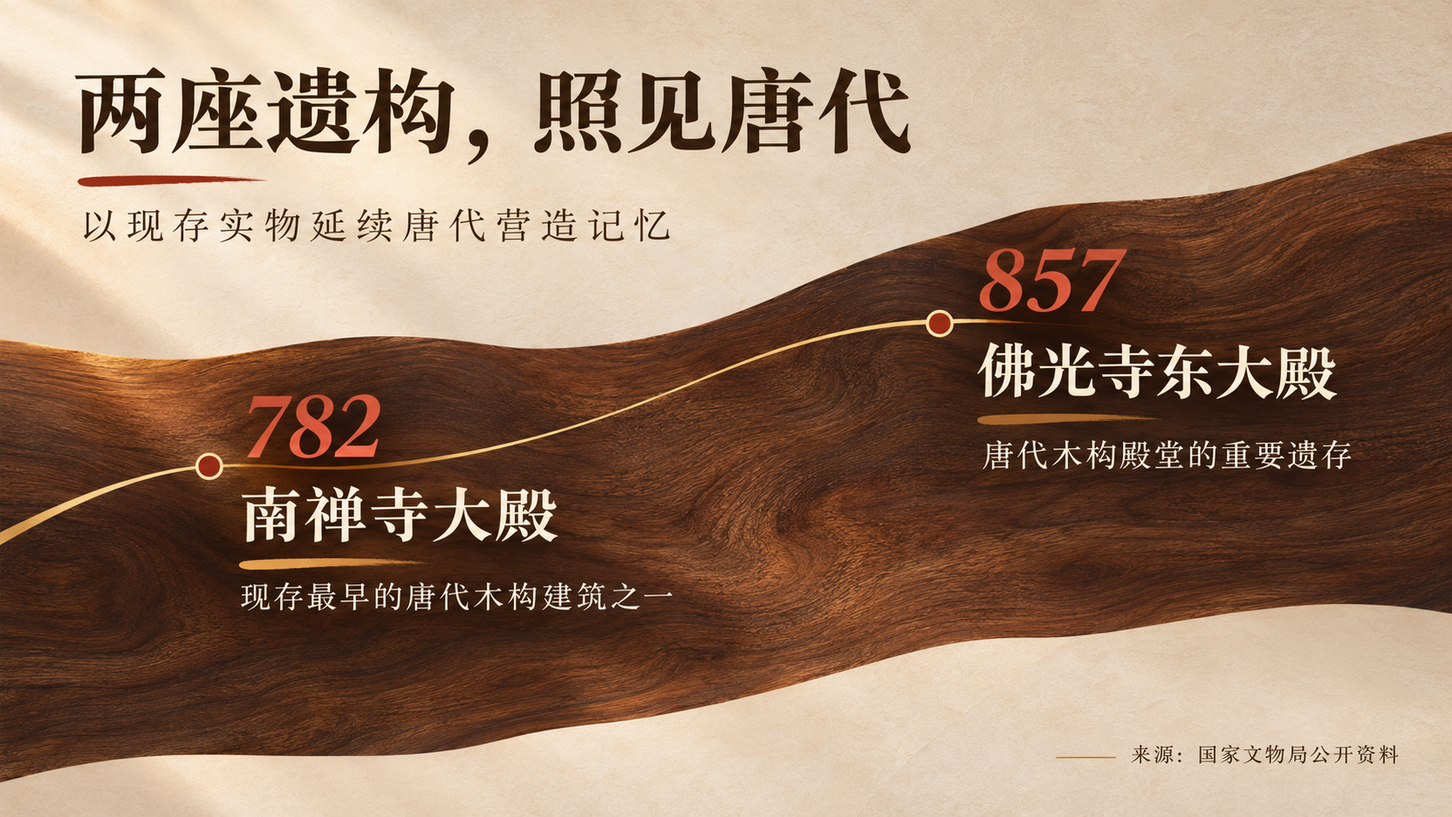
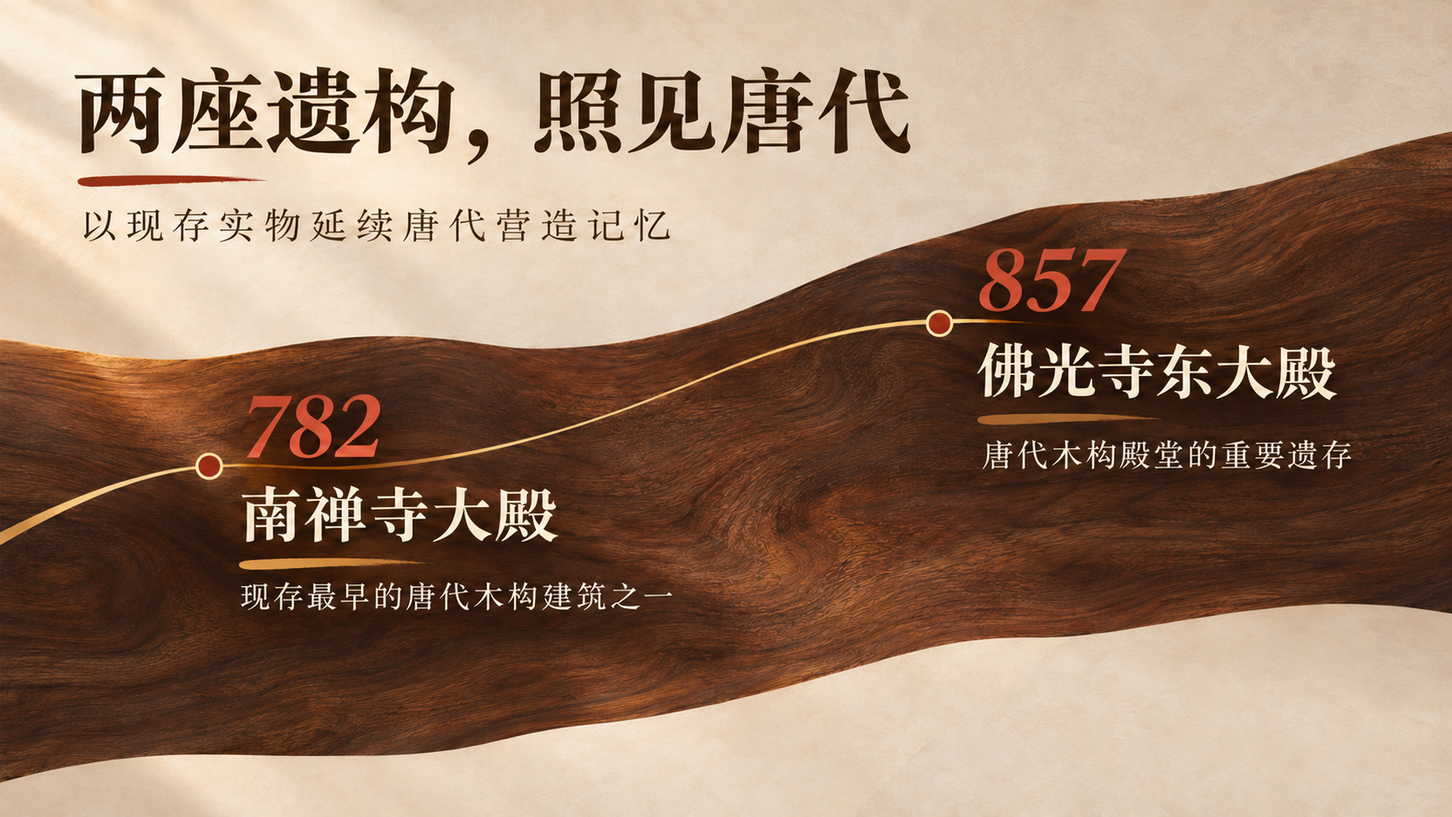
0.2.2: revise example images and add sources

diff --git a/KNOWN-ISSUES.md b/KNOWN-ISSUES.md
@@ -1,26 +1,6 @@
 # Known issues
 
-These issues in the example images are not yet fixed. Do not cite text inside the images; rely on checkable sources when producing slides. Sources and corrections are welcome in Issues.
+No example-image issues are currently listed (revised 2026-11-26). The images remain AI-generated design illustrations and must not be cited as historical evidence; rely on checkable sources when producing slides. Sources and corrections are welcome in Issues.
 
 | Image | Issue |
 |---|---|
-| [`tang-timber-architecture/02-historical-timeline`](.agents/skills/tang-timber-architecture/assets/examples/02-historical-timeline.png) | The in-image credit to National Cultural Heritage Administration public material has no matching source in this repository |
-| [`tang-timber-architecture/03-inscription-evidence`](.agents/skills/tang-timber-architecture/assets/examples/03-inscription-evidence.png) | The report title in the image is not checked against an original publication |
-| [`tang-timber-architecture/04-surviving-arts`](.agents/skills/tang-timber-architecture/assets/examples/04-surviving-arts.png) | The in-image source note has no matching source record |
-| [`ruyao-blue-slide-design/02-history-locator`](.agents/skills/ruyao-blue-slide-design/assets/examples/02-history-locator.png) | The map outline and points are AI-generated, unverified, and must not be used as a map |
-| [`ruyao-blue-slide-design/05-ending`](.agents/skills/ruyao-blue-slide-design/assets/examples/05-ending.png) | Same image as the primary reference `ruyao-blue-reference.png` |
-| [`minnan-red-brick/02-history`](.agents/skills/minnan-red-brick/assets/examples/02-history.png) | One Chinese character is malformed; “formally originated” overstates the recorded source |
-| [`jianzhan-yaobian/02-song-tea-culture`](.agents/skills/jianzhan-yaobian/assets/examples/02-song-tea-culture.png) | Callout lines have no labels |
-| [`ruyao-blue-slide-design/04-crackle-details`](.agents/skills/ruyao-blue-slide-design/assets/examples/04-crackle-details.png) | Crab-claw crackle and spur-mark statements have no recorded source |
-| [`guan-ice-crackle/03-history-timeline`](.agents/skills/guan-ice-crackle/assets/examples/03-history-timeline.png) | Kiln names have no recorded source |
-| [`guan-ice-crackle/04-powder-celadon`](.agents/skills/guan-ice-crackle/assets/examples/04-powder-celadon.png) | The rim and foot color explanation has no recorded source; small text is hard to read |
-| [`huizhou-architecture/02-village-history`](.agents/skills/huizhou-architecture/assets/examples/02-village-history.png) | Date range and building background have no recorded source |
-| [`huizhou-architecture/04-three-carvings`](.agents/skills/huizhou-architecture/assets/examples/04-three-carvings.png) | The claimed Song-dynasty origin has no recorded source |
-| [`ming-forbidden-city/02-construction-timeline`](.agents/skills/ming-forbidden-city/assets/examples/02-construction-timeline.png) | The 1421 capital move has no recorded source |
-| [`ming-forbidden-city/05-ending`](.agents/skills/ming-forbidden-city/assets/examples/05-ending.png) | The 1421 capital move has no recorded source |
-| [`minnan-red-brick/04-space`](.agents/skills/minnan-red-brick/assets/examples/04-space.png) | Corner lattice decoration and the humidity-control statement await review |
-| [`palace-caisson/02-layered-structure`](.agents/skills/palace-caisson/assets/examples/02-layered-structure.png) | The structure drawing is a generated illustration, not a survey or museum drawing |
-| [`dunhuang-caves/01-cover`](.agents/skills/dunhuang-caves/assets/examples/01-cover.png) | The date line mixes a year and a century |
-| [`song-dougong/02-yingzao-fashi-timeline`](.agents/skills/song-dougong/assets/examples/02-yingzao-fashi-timeline.png) | Two listed content categories of the treatise have no recorded source |
-| [`tiantan-qinian/02-history-timeline`](.agents/skills/tiantan-qinian/assets/examples/02-history-timeline.png) | “Rebuilt to the original design” goes beyond the recorded source |
-| [`junyao-kiln-transformation/04-kiln-story`](.agents/skills/junyao-kiln-transformation/assets/examples/04-kiln-story.png) | The statement about later deliberate use has no recorded source |

diff --git a/README.md b/README.md
@@ -14,7 +14,7 @@
   <a href="https://github.com/Jacky0111/chinese-aesthetic-ppt-skill-set/stargazers"><img src="https://img.shields.io/github/stars/Jacky0111/chinese-aesthetic-ppt-skill-set?style=for-the-badge&color=8C2A22" alt="GitHub stars"></a>
 </p>
 
-<p align="center">Author: Jacky0111 · Version <code>0.2.1</code> (<a href="CHANGELOG.md">changelog</a>)</p>
+<p align="center">Author: Jacky0111 · Version <code>0.2.2</code> (<a href="CHANGELOG.md">changelog</a>)</p>
 
 Color, material, texture, gloss, and spatial order drawn from Chinese ceramics, classical architecture, and cave art, translated into content-driven contemporary presentation design. Includes 13 style skills and 1 workflow for adding new styles. Example slides contain Chinese text.
 
@@ -50,19 +50,19 @@ The images below are AI-generated modern design illustrations, not historical im
 
 | Stable ID | Style | Classification | Version |
 |---|---|---|---|
-| `ruyao-blue-slide-design` | Ruyao Sky Blue | Ceramics / Ruyao | `2.7.0` |
-| `guan-ice-crackle` | Guan Ware Ice Crackle | Ceramics / Guan ware | `0.2.1` |
-| `junyao-kiln-transformation` | Jun Ware Kiln Transformation | Ceramics / Jun ware | `0.2.1` |
-| `jianzhan-yaobian` | Jian Ware Yaobian | Ceramics / Jian ware | `2.1.0` |
+| `ruyao-blue-slide-design` | Ruyao Sky Blue | Ceramics / Ruyao | `2.7.1` |
+| `guan-ice-crackle` | Guan Ware Ice Crackle | Ceramics / Guan ware | `0.2.2` |
+| `junyao-kiln-transformation` | Jun Ware Kiln Transformation | Ceramics / Jun ware | `0.2.2` |
+| `jianzhan-yaobian` | Jian Ware Yaobian | Ceramics / Jian ware | `2.1.1` |
 | `qianlong-enamel` | Qianlong Enamel | Ceramics / Qianlong enamel | `0.2.1` |
-| `ming-forbidden-city` | Ming Forbidden City | Architecture / Palace / Ming | `2.5.0` |
-| `tiantan-qinian` | Temple of Heaven Qinian | Architecture / Ritual / Temple of Heaven | `2.1.0` |
-| `palace-caisson` | Palace Caisson | Architecture / Palace / Caisson | `0.2.1` |
-| `tang-timber-architecture` | Tang Timber Architecture | Architecture / Timber / Tang | `2.2.0` |
-| `song-dougong` | Song-Style Dougong | Architecture / Timber / Song | `0.2.1` |
-| `huizhou-architecture` | Huizhou Architecture | Architecture / Regional / Huizhou | `0.2.1` |
-| `dunhuang-caves` | Dunhuang Caves | Art / Mural / Dunhuang | `0.2.1` |
-| `minnan-red-brick` | Minnan Red Brick Architecture | Architecture / Regional / Minnan | `0.2.1` |
+| `ming-forbidden-city` | Ming Forbidden City | Architecture / Palace / Ming | `2.5.1` |
+| `tiantan-qinian` | Temple of Heaven Qinian | Architecture / Ritual / Temple of Heaven | `2.1.1` |
+| `palace-caisson` | Palace Caisson | Architecture / Palace / Caisson | `0.2.2` |
+| `tang-timber-architecture` | Tang Timber Architecture | Architecture / Timber / Tang | `2.2.1` |
+| `song-dougong` | Song-Style Dougong | Architecture / Timber / Song | `0.2.2` |
+| `huizhou-architecture` | Huizhou Architecture | Architecture / Regional / Huizhou | `0.2.2` |
+| `dunhuang-caves` | Dunhuang Caves | Art / Mural / Dunhuang | `0.2.2` |
+| `minnan-red-brick` | Minnan Red Brick Architecture | Architecture / Regional / Minnan | `0.2.2` |
 
 Workflow: `chinese-style-skill-workflow` (research, design proposal, five previews, human review, bilingual implementation).
 

diff --git a/.agents/skills/tang-timber-architecture/references/sources.md b/.agents/skills/tang-timber-architecture/references/sources.md
@@ -11,8 +11,17 @@
 - **Verified facts:** The sources above date Nanchan Temple Main Hall to 782 and Foguang Temple East Hall to 857. Inscriptions, the scripture pillar, and modern survey history are evidence relating to the specific Foguang Temple building.
 - **Modern design translation:** Deep wood, cinnabar, earth yellow/warm ivory, grain movement, horizontal span, layered support, and raking light are contemporary presentation choices. They are not historical color measurements or reconstructions of original Tang materials and appearance.
 - **Scope:** Tang timber architecture includes different regions, building types, construction traditions, and later repairs. Identify the building and source when using particular historical or structural claims; do not treat Nanchan or Foguang as universal examples.
-- **Image text limitations:** The source note on `assets/examples/02-historical-timeline.png` has not been matched to a specific page. The report title printed on `03-inscription-evidence.png` has not been checked against the original publication. These are generated example-slide text, not verified bibliography. For a real presentation, replace them with traceable publication details.
+- **Image text revision (2026-11-26):** Unverifiable source notes and a report title were removed from the example images, and statements about dating, murals, and inscriptions were rewritten to match the sources. Liang Sicheng’s study of Foguang Temple appears in volume 7 of the Bulletin of the Society for Research in Chinese Architecture; check the original before citing it.
 
 ## Design use
 
 Organize slides through material layers, spatial order, horizontal and vertical cadence, and relationships of support. Unless the supplied content discusses a specific building or component, do not use a hall, roof, bracket set, or close-up of joinery as decoration. Structural ideas should shape information hierarchy and component relationships instead of recurring as literal architectural diagrams.
+
+## Sources for text in example slides (checked 2026-11-26)
+
+These pages were read through web retrieval tools. News and republished items are weaker evidence than collection records or scholarship; verify before formal citation.
+
+- [Journal of Architectural History (republished on The Paper): Nanchan Temple Main Hall](https://www.thepaper.cn/newsDetail_forward_18883877) — Accepted as rebuilt in 782, the earliest surviving Tang timber building.
+- [Liang Sicheng and Lin Huiyin on Foguang Temple (republished by the Shanxi culture and tourism department)](https://m.thepaper.cn/newsDetail_forward_10143234) — The hall patron Ning Gongyu named on a beam also appears on the 857 scripture pillar, supporting the dating; later repainting changed the sculptures’ original color.
+- [Guangming Online: Foguang Temple](https://news.gmw.cn/2020-08/01/content_34048512.htm) — Inscriptions, Ning Gongyu, and the pillar.
+- [National Cultural Heritage Administration: Foguang Temple news](http://www.ncha.gov.cn/art/2026/8/23/art_722_204477.html) — The hall preserves Tang sculptures, murals, and ink inscriptions.

diff --git a/.agents/skills/tang-timber-architecture/assets/README.md b/.agents/skills/tang-timber-architecture/assets/README.md
@@ -6,10 +6,12 @@ These five images were generated with `imagegen` and approved by the user for th
 |---|---|---|---|
 | `examples/01-cover.png` | Cover; Tang timber architecture and building order | Generated with `imagegen`; approved by the user | Reference the deep wood movement, warm reading space, and asymmetrical layers; do not fix title placement |
 | `examples/02-historical-timeline.png` | Content; Nanchan Temple Main Hall (782) and Foguang Temple East Hall (857) | Generated with `imagegen`; approved by the user | The date comparison is specific to this subject, not a required timeline format |
-| `examples/03-inscription-evidence.png` | Content; beam inscription, scripture pillar, and survey evidence | Generated with `imagegen`; approved by the user | The report title printed in the image has not been checked against an original publication; do not cite it as a verified bibliography |
+| `examples/03-inscription-evidence.png` | Content; beam inscription, scripture pillar, and survey evidence | Generated with `imagegen`; approved by the user | Extract the evidence narrative, grain, and cinnabar movement; rely on the sources file for history |
 | `examples/04-surviving-arts.png` | Content; timber structure, sculptures, murals, and inscriptions at Foguang Temple East Hall | Generated with `imagegen`; approved by the user | Keep these details specific to Foguang Temple; staggered groups are not a required component |
 | `examples/05-ending.png` | Ending; a retrospective across 782, 857, and 1937 | Generated with `imagegen`; approved by the user | Reference the deep grain and warm-light resolution, not its wording or composition |
 
 Consult examples only when visual calibration is useful. Extract the relationships among deep wood, cinnabar, earth yellow/warm ivory, grain density, horizontal span, layered support, and light. Recombine these cues for the actual slide purpose. Avoid distressed-paper styling and all-over grain that harms reading; a flat color alone is also insufficient to express the visual language.
 
-**Asset status:** AI-generated from text prompts with no reference images (creator declaration), released under CC BY 4.0; catalog status `cleared`. This does not mean that text inside the images has been fact-checked; see `KNOWN-ISSUES.md` at the repository root. The in-image source notes on slide 2 and the report title on slide 3 have not been verified as exact bibliographic citations; consult `references/sources.md` for traceable historical sources.
+**Asset status:** AI-generated from text prompts with no reference images (creator declaration), released under CC BY 4.0; catalog status `cleared`. This does not mean that text inside the images has been fact-checked; see `KNOWN-ISSUES.md` at the repository root.
+
+**Revision note (2026-11-26):** `assets/examples/02-historical-timeline.png`, `assets/examples/03-inscription-evidence.png`, `assets/examples/04-surviving-arts.png` were revised with `imagegen` using existing images from this repository as input, so the "no reference images" statement above does not apply to these revised versions.

diff --git a/.agents/skills/ruyao-blue-slide-design/assets/README.md b/.agents/skills/ruyao-blue-slide-design/assets/README.md
@@ -1,16 +1,18 @@
 # Ruyao Sky Blue Asset Index
 
-All paths are relative to this skill directory. The five slide-design examples are not historical objects or fixed templates. All images are reviewed design examples generated with `imagegen`; the ending example is the same image as the primary reference.
+All paths are relative to this skill directory. The five slide-design examples are not historical objects or fixed templates. All images are reviewed design examples generated with `imagegen`.
 
 | File | Page role | Purpose | Source / status | How to use |
 |---|---|---|---|---|
-| `ruyao-blue-reference.png` | Primary reference | Visual source image | Generated with `imagegen` from text prompts (creator declaration); same image as `examples/05-ending.png` | Observe glaze, fine crackle, flowing edges, and blue accents; do not copy calligraphy or composition |
+| `ruyao-blue-reference.png` | Primary reference | Visual source image | Generated with `imagegen` from text prompts (creator declaration) | Observe glaze, fine crackle, flowing edges, and blue accents; do not copy calligraphy or composition |
 | `examples/01-cover.png` | Cover | Title cover | AI-generated design preview; user-approved | Observe pale celadon, glaze glow, and title contrast |
-| `examples/02-history-locator.png` | Content | Historical locator | AI-generated design preview; user-approved | Observe information hierarchy with textured material |
+| `examples/02-history-locator.png` | Content | Site location hierarchy | AI-generated design preview; user-approved | Observe information hierarchy with textured material |
 | `examples/03-glaze-tones.png` | Content | Glaze color study | AI-generated design preview; user-approved | Observe tonal range, translucency, and fine crackle |
 | `examples/04-crackle-details.png` | Content | Crackle analysis | AI-generated design preview; user-approved | Observe fine crackle and annotation treatment |
-| `examples/05-ending.png` | Ending | Closing-page example | Generated with `imagegen`; user-approved; same image as the primary reference | Observe the closing composition; do not copy it |
+| `examples/05-ending.png` | Ending | Closing-page example | AI-generated with the primary reference as style input; revised 2026-11-26 | Observe the closing composition; do not copy it |
 
 The example images help identify visual language, not historical facts. Historical sources and interpretation boundaries are listed in [`references/sources.md`](../references/sources.md).
 
 **Asset status:** AI-generated from text prompts with no reference images (creator declaration), released under CC BY 4.0; catalog status `cleared`. This does not mean that text inside the images has been fact-checked; see `KNOWN-ISSUES.md` at the repository root.
+
+**Revision note (2026-11-26):** `assets/examples/02-history-locator.png`, `assets/examples/05-ending.png` were revised with `imagegen` using existing images from this repository as input, so the "no reference images" statement above does not apply to these revised versions.

diff --git a/.agents/skills/tiantan-qinian/references/sources.md b/.agents/skills/tiantan-qinian/references/sources.md
@@ -14,9 +14,15 @@ Sapphire, cinnabar, gilt, and Han-white/marble tones form a contemporary present
 ## Sources
 
 1. [Beijing Municipal Cultural Heritage Bureau: Temple of Heaven](https://wwj.beijing.gov.cn/bjww/wwjzzcslm/1737418/1738088/1742735/364353/index.html) — history and architectural information.
-2. [Beijing Municipal Cultural Heritage Bureau: “Gates in Traditional Chinese Ritual Architecture,” Temple of Heaven section (PDF)](https://wwj.beijing.gov.cn/bjww/resource/cms/article/362762/515628/2018052316192538218.pdf) — context on ritual architecture.
-3. [Beijing Municipal Parks Administration: The Main Building of the Temple of Heaven — Hall of Prayer for Good Harvests](https://gygl.beijing.gov.cn/whgy/whgy_wsgc/201912/t20191206_885633.html) — history, function, and form.
-4. [Beijing Municipal Parks Administration: Hall of Prayer for Good Harvests](https://gygl.beijing.gov.cn/mlgy/mlgy_gyjg01/201912/t20191211_1048233.html) — architecture and ritual introduction.
-5. [UNESCO: Temple of Heaven: an Imperial Sacrificial Altar in Beijing](https://whc.unesco.org/en/list/881/) — heritage value and cosmological concepts.
+2. [Beijing Municipal Parks Administration: The Main Building of the Temple of Heaven — Hall of Prayer for Good Harvests](https://gygl.beijing.gov.cn/whgy/whgy_wsgc/201912/t20191206_885633.html) — history, function, and form.
+3. [Beijing Municipal Parks Administration: Hall of Prayer for Good Harvests](https://gygl.beijing.gov.cn/mlgy/mlgy_gyjg01/201912/t20191211_1048233.html) — architecture and ritual introduction.
+4. [UNESCO: Temple of Heaven: an Imperial Sacrificial Altar in Beijing](https://whc.unesco.org/en/list/881/) — heritage value and cosmological concepts.
 
 Use these institutional sources for dates and historical claims. The visual examples are modern design studies, not historical evidence.
+
+## Sources for text in example slides (checked 2026-11-26)
+
+These pages were read through web retrieval tools. News and republished items are weaker evidence than collection records or scholarship; verify before formal citation.
+
+- [Beijing Municipal Government: Temple of Heaven feature](https://www.beijing.gov.cn/shipin/qushuobeijing/19513.html) — Burned in 1889; rebuilding ordered the next year; the rebuilt hall differs slightly from the original.
+- [The Beijing News: Hall of Prayer for Good Harvests](https://m.bjnews.com.cn/detail/163029107414385.html) — Book excerpt: rebuilding the following year, completed in 1896.

diff --git a/.agents/skills/guan-ice-crackle/references/sources.md b/.agents/skills/guan-ice-crackle/references/sources.md
@@ -15,3 +15,13 @@ Powder celadon, thick-glaze depth, irregular large crackle, and restraint guide 
 - [Palace Museum: Guan ware celadon washer](https://www.dpm.org.cn/collection/ceramic/226749.html)
 - [Palace Museum: Guan ware powder-celadon vase](https://www.dpm.org.cn/collection/ceramic/226843.html)
 - [Palace Museum: Introduction to Song Guan ware](https://www.dpm.org.cn/journal_detail/112135.html)
+
+## Sources for text in example slides (checked 2026-11-26)
+
+These pages were read through web retrieval tools. News and republished items are weaker evidence than collection records or scholarship; verify before formal citation.
+
+- [The Palace Museum: Song Guan ware](https://www.dpm.org.cn/lemmas/242620.html) — Names the Xiuneisi and Jiaotanxia Guan kilns.
+- [National Palace Museum, Taipei: Southern Song Guan ware exhibition page](https://theme.npm.edu.tw/exh104/Celadons/ch/page-3.html) — Southern Song kilns set up after the earlier system; matching excavated sites to textual names remains tentative.
+- [Henan Museum: lecture notice on Southern Song Guan kilns (Du Zhengxian)](https://www.chnmus.net/sitesources/hnsbwy/page_pc/ppjy/zygxjt/articleeace65adba3d4224830fddff71a9feb6.html) — The Southern Song established an official kiln in Lin’an following the former capital’s system.
+- [Nanjing Municipal Museum: Guan ware dish](https://njmuseumadmin.com/en/Antique/antishow/id/151) — Mainly powder celadon, also greenish gray and cream; the official status of this domain should be rechecked.
+- [The Palace Museum: "purple mouth, iron foot"](https://www.dpm.org.cn/lemmas/239378.html) — Linked to the iron-rich body and differing reduction at rim and foot.

diff --git a/NOTICE.md b/NOTICE.md
@@ -5,7 +5,7 @@
 | `install.sh`, `tooling/` | MIT (see `LICENSE`) |
 | `.agents/skills/`, `catalog/`, `assets/`, root documents | CC BY 4.0 (see `LICENSE-CONTENT.md`) |
 
-- Example images were generated by AI (ChatGPT / `gpt-image`) from text prompts; the creator declares that no reference images were supplied. Some jurisdictions may not protect purely AI-generated material by copyright. Rights are licensed only to the extent the creator holds them.
+- Example images were generated by AI (ChatGPT / `gpt-image`) from text prompts; the creator declares that no reference images were supplied for the initial versions; some images revised on 2026-11-26 used existing repository images as input, listed in each skill’s `assets/README.md`. Some jurisdictions may not protect purely AI-generated material by copyright. Rights are licensed only to the extent the creator holds them.
 - `assets/banner.png` was drawn by an AI-assisted program with no external images or image-generation model. Its colors loosely follow those of the style cover examples, and its text is rasterized from the macOS system font Baskerville.
 - The images are modern design illustrations, not historical photographs, artifact images, surveys, maps, or historical evidence. Text, dates, and source credits inside the images are not all verified; do not cite them. See `KNOWN-ISSUES.md`.
 - Third-party material linked from `references/sources.md` belongs to its respective owners and is not covered by these licenses. Institutions named in images or text are not affiliated with and do not endorse this project.

diff --git a/.agents/skills/huizhou-architecture/references/sources.md b/.agents/skills/huizhou-architecture/references/sources.md
@@ -16,3 +16,11 @@
 ## Use principles
 
 Integrate space and material into the slide's information system rather than adding them as isolated roof illustrations. When the user's content discusses a particular building, courtyard, or carving craft, relevant forms may be shown purposefully with attribution. Otherwise, favor abstract volume, layering, boundaries, light, and whitespace. Do not use example images as historical evidence.
+
+## Sources for text in example slides (checked 2026-11-26)
+
+These pages were read through web retrieval tools. News and republished items are weaker evidence than collection records or scholarship; verify before formal citation.
+
+- [National Cultural Heritage Administration: Xidi and Hongcun](http://www.ncha.gov.cn/art/2024/8/8/art_2791_190651.html) — Preserves 14th–20th-century village character; returning officials and merchants built the villages; lineage settlement within a landscape setting. The range is not a founding date.
+- [Xinhuanet: report on Hongcun](http://www.news.cn/local/20240809/a23ed0945ddf48cd86cd4f6cb3079dc2/c.html) — News report on streets and waterways; channel details apply to Hongcun.
+- [China Intangible Cultural Heritage website: Huizhou Three Carvings](https://www.ihchina.cn/news_1_details/10947.html) — A republished report dates the origin to the Song and the peak to the Ming and Qing; the register traces the Wuyuan branch to the Tang.

diff --git a/.agents/skills/song-dougong/references/sources.md b/.agents/skills/song-dougong/references/sources.md
@@ -14,3 +14,9 @@
 - **Design interpretation:** Mapping bearing, transition, connection, progression, and scale relationships to page hierarchy, component links, visual rhythm, and material layers is a modern design translation, not a historical prescription for slide composition.
 - **Modern design choice:** Wood brown, blue-gray, and ivory define this skill’s visual palette. They do not claim a single universal color scheme for Song dougong or Song architecture. Texture, light, and spatial effects are also contemporary interpretations.
 - **Unknowns and scope:** Song architecture varies by region, use, rank, period, and later repair. One text or building cannot represent every Song-style dougong system. Add specific sources when making claims about a particular construction detail or building; do not infer historic dimensions or appearance from generated examples.
+
+## Sources for text in example slides (checked 2026-11-26)
+
+These pages were read through web retrieval tools. News and republished items are weaker evidence than collection records or scholarship; verify before formal citation.
+
+- [The Palace Museum: Yingzao Fashi](https://www.dpm.org.cn/ancient/mingqing/149329.html) — Contents include general explanations, regulations, labor quotas, material quotas, and drawings; Li Jie revised it by imperial order.

diff --git a/.agents/skills/minnan-red-brick/references/sources.md b/.agents/skills/minnan-red-brick/references/sources.md
@@ -16,3 +16,10 @@
 ## Design use
 
 Integrate fired-clay texture, staggered/interwoven relationships, swallowtail curves, brick-stone boundaries, and spatial light into page backgrounds, information fields, charts, and components. Unless the input discusses a specific building or component, do not show a complete Minnan house, wall, roof, or literal traditional motif. Do not mistake loose bricks, material callouts, or component illustrations for full-page design language.
+
+## Sources for text in example slides (checked 2026-11-26)
+
+These pages were read through web retrieval tools. News and republished items are weaker evidence than collection records or scholarship; verify before formal citation.
+
+- [People’s Daily, 23 July 2025: cooling wisdom of Minnan houses](https://paper.people.com.cn/rmrb/pc/content/202507/23/content_30089812.html) — A scholar notes that brick pores absorb moisture and open halls aid ventilation; case-specific expert commentary.
+- [Fujian Daily: wisdom in Minnan red-brick houses](https://www.fjdaily.com/app/content/2026-02/02/content_3772914.html) — The courtyard well is central to light and ventilation.

diff --git a/.agents/skills/junyao-kiln-transformation/references/sources.md b/.agents/skills/junyao-kiln-transformation/references/sources.md
@@ -16,3 +16,10 @@ Flowing screen gradients, soft light, purple-red accents, and deep-violet focal 
 - [Palace Museum: Jun ware sky-blue bowl with purple-red patches](https://www.dpm.org.cn/collection/ceramic/227947.html)
 - [Palace Museum: Jun ware academic symposium review](https://www.dpm.org.cn/journal/247025.html)
 - [Palace Museum: Rose-purple glaze](https://www.dpm.org.cn/lemmas/239385.html)
+
+## Sources for text in example slides (checked 2026-11-26)
+
+These pages were read through web retrieval tools. News and republished items are weaker evidence than collection records or scholarship; verify before formal citation.
+
+- [The Palace Museum: Jun ware sky-blue transmutation-glaze bowl](https://www.dpm.org.cn/collection/ceramic/227954.html) — Kiln transmutation began as a natural change and was later used deliberately as decoration.
+- [The Palace Museum: Jun ware dish with purple-red splashes](https://www.dpm.org.cn/collection/ceramic/227934.html) — Iron and copper produce reddish blues and purple splashes; this piece is dated "Jin?", and Jun ware dating is debated.
